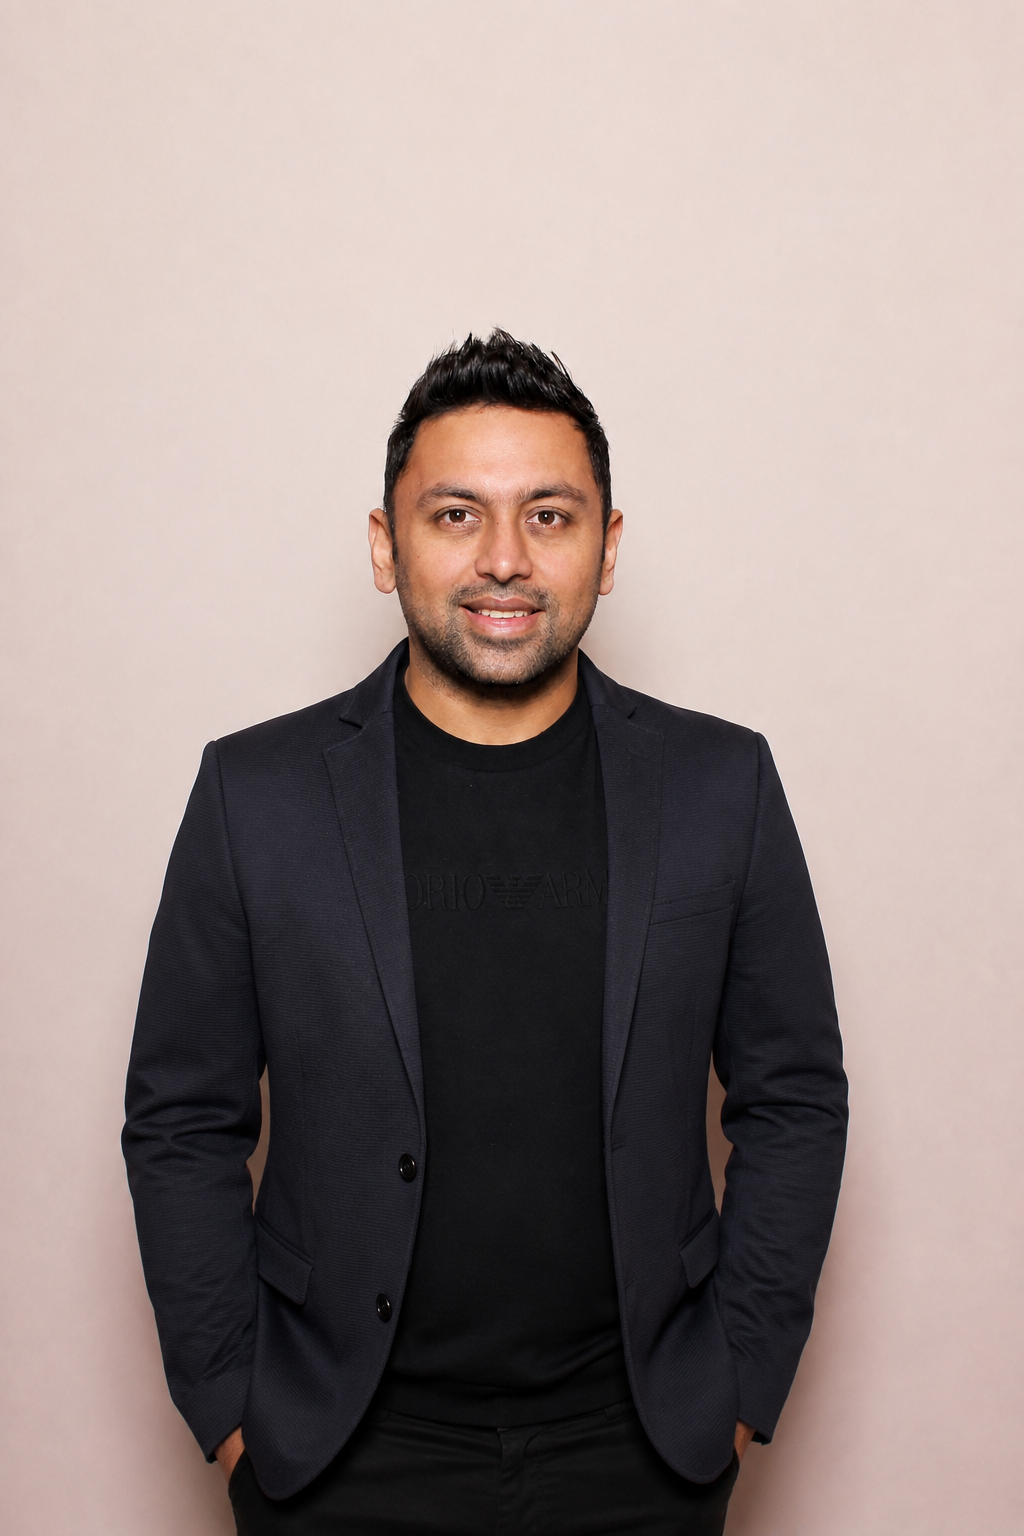
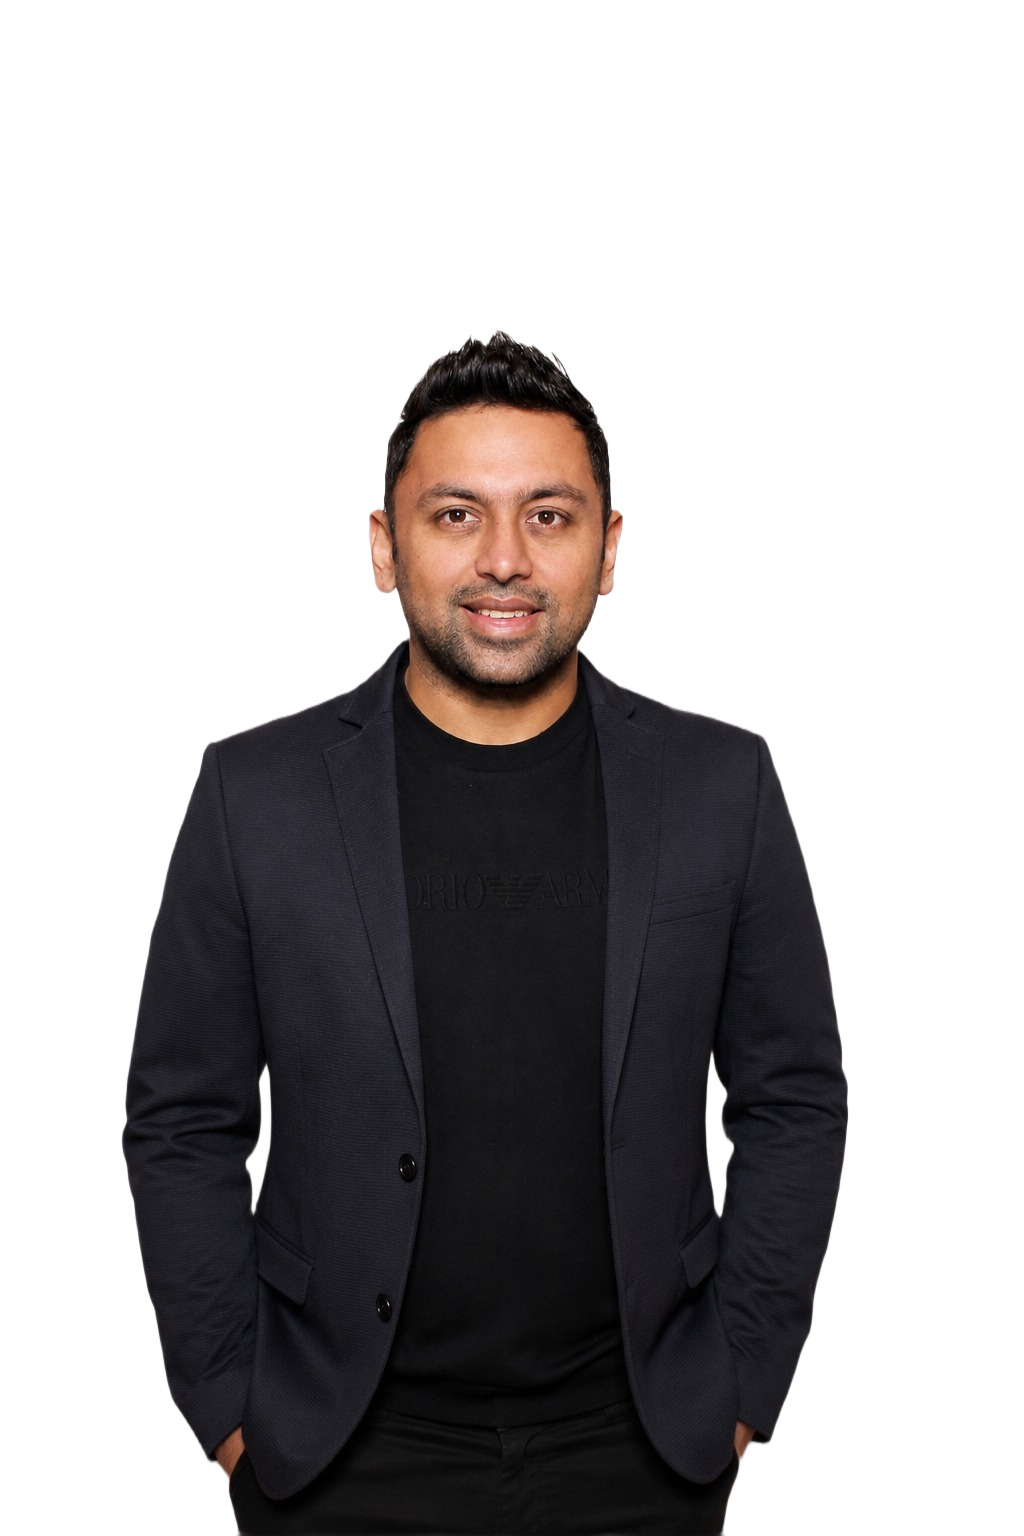
feat: update council image assets to PNGs and sync latest index.html

diff --git a/index.html b/index.html
@@ -769,6 +769,7 @@ button {
    ============================================================ */
 .sec-the-makers {
   padding: 0 0 clamp(60px, 8vw, 100px);
+  scroll-margin-top: 110px;
 }
 .makers-head-center {
   text-align: center;
@@ -808,42 +809,58 @@ button {
 .makers-profile-grid {
   display: grid;
   grid-template-columns: repeat(5, 1fr);
-  gap: clamp(14px, 2vw, 20px);
+  gap: clamp(18px, 2.2vw, 24px);
   margin-bottom: 0;
+  padding: 6px 8px 4px;
 }
 .makers-profile-grid.grid-leaders {
-  grid-template-columns: repeat(3, minmax(0, 240px));
+  grid-template-columns: repeat(3, minmax(0, 250px));
   justify-content: center;
 }
 .maker-profile-card {
-  background: var(--card-bg);
-  border: 1px solid var(--border-light);
-  border-radius: var(--r-md);
-  padding: 0 0 14px;
-  overflow: hidden;
+  background: #FFFFFF;
+  border: 1px solid #E6ECF4;
+  border-radius: 16px;
+  padding: 0 0 18px;
+  overflow: visible;
   display: flex;
   flex-direction: column;
-  transition: all 0.25s ease;
-  box-shadow: 0 2px 8px rgba(0, 0, 0, 0.03);
+  position: relative;
+  transition: transform 0.25s ease, box-shadow 0.25s ease;
+  box-shadow: 0 10px 28px rgba(15, 30, 61, 0.07);
 }
 .maker-profile-card:hover {
   transform: translateY(-4px);
-  border-color: var(--border-mid);
-  box-shadow: var(--shadow-card);
+  box-shadow: 0 16px 36px rgba(15, 30, 61, 0.12);
 }
 .maker-sector-banner {
-  display: flex;
+  position: absolute;
+  top: 16px;
+  left: -8px;
+  z-index: 4;
+  display: inline-flex;
   align-items: center;
   gap: 6px;
-  background: var(--navy-dark);
+  background: var(--royal-blue);
   color: #FFFFFF;
-  font-size: 9.5px;
+  font-size: 9px;
   font-weight: 700;
-  letter-spacing: 0.08em;
+  letter-spacing: 0.07em;
   text-transform: uppercase;
-  padding: 8px 10px;
-  line-height: 1.35;
-  min-height: 34px;
+  padding: 7px 12px 7px 14px;
+  line-height: 1.3;
+  max-width: calc(100% - 18px);
+  border-radius: 0 4px 4px 0;
+  box-shadow: 0 4px 10px rgba(15, 30, 61, 0.18);
+}
+.maker-sector-banner::after {
+  content: "";
+  position: absolute;
+  left: 0;
+  bottom: -7px;
+  border-style: solid;
+  border-width: 7px 8px 0 0;
+  border-color: #0A1633 transparent transparent transparent;
 }
 .maker-sector-banner svg {
   width: 10px;
@@ -851,48 +868,64 @@ button {
   flex-shrink: 0;
   fill: #FFFFFF;
 }
-.maker-card-body {
-  padding: 12px 12px 0;
-  display: flex;
-  flex-direction: column;
-  flex: 1;
-}
-.maker-card-img-wrap {
+.maker-card-photo {
+  position: relative;
   width: 100%;
-  aspect-ratio: 1.05;
-  border-radius: 10px;
+  height: 228px;
   overflow: hidden;
-  background: #E2E8F0;
-  margin-bottom: 12px;
+  border-radius: 16px 16px 0 0;
+  background: #FFFFFF;
 }
-.maker-card-img-wrap img {
+.maker-card-halo {
+  position: absolute;
+  left: 50%;
+  top: 22%;
+  transform: translateX(-50%);
+  width: 78%;
+  aspect-ratio: 1;
+  border-radius: 50%;
+  background: var(--royal-blue);
+  z-index: 0;
+}
+.maker-card-photo img {
+  position: relative;
+  z-index: 1;
   width: 100%;
-  height: 100%;
-  object-fit: cover;
-  object-position: top center;
+  height: 112%;
+  object-fit: contain;
+  object-position: center 12%;
+  filter: grayscale(1) contrast(1.06);
 }
 .maker-card-ph {
+  position: relative;
+  z-index: 1;
   width: 100%;
   height: 100%;
   display: flex;
   align-items: center;
   justify-content: center;
-  background: linear-gradient(160deg, var(--navy-dark), var(--royal-blue));
   color: #FFFFFF;
   font-size: 28px;
   font-weight: 800;
   letter-spacing: 0.04em;
 }
+.maker-card-info {
+  padding: 10px 16px 0;
+  display: flex;
+  flex-direction: column;
+  flex: 1;
+  text-align: left;
+}
 .maker-card-name {
-  font-size: 14.5px;
+  font-size: 15px;
   font-weight: 800;
   color: var(--royal-blue);
   line-height: 1.2;
 }
 .maker-card-company {
-  font-size: 11.5px;
-  font-weight: 600;
-  color: var(--text-muted);
+  font-size: 12px;
+  font-weight: 500;
+  color: #6B7A90;
   margin-top: 4px;
   line-height: 1.35;
 }
@@ -1658,24 +1691,24 @@ button {
    1. COUNCIL DATA (14 Members)
    ------------------------------------------------------------ */
 const COUNCIL = [
-  { group:'national', name:'Brij Bhushan Agrawal', sector:'President, ICC', company:'Shyam Mettalics and Energy', photo:'assets/council/brij-bhushan-agarwal.jpeg' },
+  { group:'national', name:'Brij Bhushan Agrawal', sector:'President, ICC', company:'Shyam Mettalics and Energy', photo:'assets/council/brij-bhushan-agarwal.png' },
   { group:'national', name:'Parthiv Neotia', sector:'Senior Vice President, ICC', company:'Ambuja Neotia Group', photo:'assets/council/parthiv-neotia.png' },
   { group:'national', name:'Keshav Bhajanka', sector:'Vice President, ICC', company:'Century Plyboards', photo:'assets/council/keshav-bhajanka.png' },
 
   { group:'state', name:'Ankit Mehta', sector:'Chair, ICC MP Chapter', company:'MMC Convert', photo:'assets/council/ankit-mehta.png' },
-  { group:'state', name:'Tapan Agrawal', sector:'Co-Chair, ICC MP Chapter', company:'Agrawal Coal Corporation', photo:'assets/council/tapan-agrawal.jpg' },
-  { group:'state', name:'Ankur Khaitan', sector:'Co-Chair (Bhopal), ICC MP Chapter', company:'LNJ Bhilwara Group', photo:'assets/council/ankur-khaitan.jpg' },
+  { group:'state', name:'Tapan Agrawal', sector:'Co-Chair, ICC MP Chapter', company:'Agrawal Coal Corporation', photo:'assets/council/tapan-agrawal.png' },
+  { group:'state', name:'Ankur Khaitan', sector:'Co-Chair (Bhopal), ICC MP Chapter', company:'LNJ Bhilwara Group', photo:'assets/council/ankur-khaitan.png' },
 
-  { group:'sectoral', name:'Ankit Agrawal', sector:'FMCG', company:'Mysore Deep Perfumery House', photo:'assets/council/ankit-agrawal.jpeg' },
-  { group:'sectoral', name:'Minaal Sahlot', sector:'Real Estate', company:'Raj Group', photo:'assets/council/minaal-sahlot.jpg' },
-  { group:'sectoral', name:'Priyesh Nagar', sector:'Retail', company:'Maganlal Chhaganlal', photo:'assets/council/priyesh-nagar.jpeg' },
+  { group:'sectoral', name:'Ankit Agrawal', sector:'FMCG', company:'Mysore Deep Perfumery House', photo:'assets/council/ankit-agrawal.png' },
+  { group:'sectoral', name:'Minaal Sahlot', sector:'Real Estate', company:'Raj Group', photo:'assets/council/minaal-sahlot.png' },
+  { group:'sectoral', name:'Priyesh Nagar', sector:'Retail', company:'Maganlal Chhaganlal', photo:'assets/council/priyesh-nagar.png' },
   { group:'sectoral', name:'Rishabh Mehta', sector:'Hospitality', company:'MID India Creations LLP', photo:'assets/council/rishabh-mehta.png' },
-  { group:'sectoral', name:'Saksham Agrawal', sector:'Infrastructure', company:'Path Group', photo:'assets/council/saksham-agrawal.jpg' },
-  { group:'sectoral', name:'Sarthak Doshi', sector:'Investments', company:'Indo Thai Securities', photo:'assets/council/sarthak-doshi.jpg' },
-  { group:'sectoral', name:'Shanu Mehta', sector:'International', company:'MMC Convert', photo:'assets/council/shanu-mehta.jpg' },
+  { group:'sectoral', name:'Saksham Agrawal', sector:'Infrastructure', company:'Path Group', photo:'assets/council/saksham-agrawal.png' },
+  { group:'sectoral', name:'Sarthak Doshi', sector:'Investments', company:'Indo Thai Securities', photo:'assets/council/sarthak-doshi.png' },
+  { group:'sectoral', name:'Shanu Mehta', sector:'International', company:'MMC Convert', photo:'assets/council/shanu-mehta.png' },
   { group:'sectoral', name:'Siddharth Bhargava', sector:'Manufacturing', company:'Rajshree Engineering', photo:'assets/council/siddharth-bhargav.png' },
-  { group:'sectoral', name:'Sumit Ghorawat', sector:'Technology', company:'Direct (ShopKirana)', photo:'assets/council/sumit-ghorawat.jpg' },
-  { group:'sectoral', name:'Udit Birla', sector:'Health & Hygiene', company:'Swara Baby Products', photo:'assets/council/udit-birla.jpeg' }
+  { group:'sectoral', name:'Sumit Ghorawat', sector:'Technology', company:'Direct (ShopKirana)', photo:'assets/council/sumit-ghorawat.png' },
+  { group:'sectoral', name:'Udit Birla', sector:'Health & Hygiene', company:'Swara Baby Products', photo:'assets/council/udit-birla.png' }
 ];
 
 function initials(name) {
@@ -1694,8 +1727,11 @@ function makerCard(m) {
         <svg viewBox="0 0 24 24" aria-hidden="true"><path d="M12 2l2.9 6.9L22 10l-5 4.4L18.2 22 12 18.2 5.8 22 7 14.4 2 10l7.1-1.1z"/></svg>
         <span>${m.sector}</span>
       </div>
-      <div class="maker-card-body">
-        <div class="maker-card-img-wrap">${photo}</div>
+      <div class="maker-card-photo">
+        <div class="maker-card-halo" aria-hidden="true"></div>
+        ${photo}
+      </div>
+      <div class="maker-card-info">
         <h3 class="maker-card-name">${m.name}</h3>
         <p class="maker-card-company">${m.company}</p>
       </div>

diff --git a/scripts/prepare-portraits.js b/scripts/prepare-portraits.js
@@ -1,0 +1,176 @@
+const fs = require('fs');
+const path = require('path');
+const { PNG } = require('pngjs');
+const jpeg = require('jpeg-js');
+
+const SRC = 'C:\\Users\\admin\\.cursor\\projects\\c-Users-admin-Documents-Imagine-new-MP\\assets';
+const DEST = path.join(__dirname, '..', 'assets', 'council');
+
+const PEOPLE = {
+  'parthiv-neotia': 'parthiv-neotia.png',
+  'keshav-bhajanka': 'keshav-bhajanka.png',
+  'brij-bhushan-agarwal': 'brij-bhushan-agarwal.png',
+  'ankit-mehta': 'ankit-mehta.png',
+  'tapan-agrawal': 'tapan-agrawal.png',
+  'ankur-khaitan': 'ankur-khaitan.png',
+  'ankit-agrawal': 'ankit-agrawal.png',
+  'minaal-sahlot': 'minaal-sahlot.png',
+  'priyesh-nagar': 'priyesh-nagar.png',
+  'rishabh-mehta': 'rishabh-mehta.png',
+  'saksham-agrawal': 'saksham-agrawal.png',
+  'sarthak-doshi': 'sarthak-doshi.png',
+  'shanu-mehta': 'shanu-mehta.png',
+  'siddharth-bhargav': 'siddharth-bhargav.png',
+  'sumit-ghorawat': 'sumit-ghorawat.png',
+  'udit-birla': 'udit-birla.png'
+};
+
+function lum(data, i) {
+  return 0.2126 * data[i] + 0.7152 * data[i + 1] + 0.0722 * data[i + 2];
+}
+
+function detectBg(png) {
+  const { width, height, data } = png;
+  const samples = [];
+  const box = Math.max(4, Math.min(12, Math.floor(Math.min(width, height) / 40)));
+  const corners = [
+    [0, 0],
+    [width - box, 0],
+    [0, height - box],
+    [width - box, height - box]
+  ];
+  for (const [sx, sy] of corners) {
+    for (let y = sy; y < sy + box; y++) {
+      for (let x = sx; x < sx + box; x++) {
+        samples.push(lum(data, (y * width + x) * 4));
+      }
+    }
+  }
+  samples.sort((a, b) => a - b);
+  const mid = samples[Math.floor(samples.length / 2)];
+  if (mid < 70) return 'dark';
+  if (mid > 190) return 'light';
+  return mid < 128 ? 'dark' : 'light';
+}
+
+function trimPng(buf) {
+  const marker = Buffer.from([0x00, 0x00, 0x00, 0x00, 0x49, 0x45, 0x4E, 0x44, 0xAE, 0x42, 0x60, 0x82]);
+  const idx = buf.indexOf(marker);
+  if (idx >= 0) return buf.subarray(0, idx + marker.length);
+  return buf;
+}
+
+function readImage(filePath) {
+  const buf = fs.readFileSync(filePath);
+  if (buf[0] === 0xFF && buf[1] === 0xD8) {
+    const decoded = jpeg.decode(buf, { useTArray: true, formatAsRGBA: true });
+    const png = new PNG({ width: decoded.width, height: decoded.height });
+    png.data = Buffer.from(decoded.data);
+    return png;
+  }
+  try {
+    return PNG.sync.read(trimPng(buf));
+  } catch (err) {
+    const decoded = jpeg.decode(buf, { useTArray: true, formatAsRGBA: true });
+    const png = new PNG({ width: decoded.width, height: decoded.height });
+    png.data = Buffer.from(decoded.data);
+    return png;
+  }
+}
+
+function isBgPixel(data, i, mode) {
+  const l = lum(data, i);
+  if (mode === 'dark') return l < 42;
+  const r = data[i];
+  const g = data[i + 1];
+  const b = data[i + 2];
+  return l > 236 && Math.abs(r - g) < 16 && Math.abs(g - b) < 16;
+}
+
+function knockOut(png, mode) {
+  if (mode === 'none') return;
+  const { width, height, data } = png;
+  const visited = new Uint8Array(width * height);
+  const qx = new Int32Array(width * height);
+  const qy = new Int32Array(width * height);
+  let qh = 0;
+  let qt = 0;
+
+  const enqueue = (x, y) => {
+    if (x < 0 || y < 0 || x >= width || y >= height) return;
+    const p = y * width + x;
+    if (visited[p]) return;
+    visited[p] = 1;
+    if (!isBgPixel(data, p * 4, mode)) return;
+    qx[qt] = x;
+    qy[qt] = y;
+    qt++;
+  };
+
+  for (let x = 0; x < width; x++) {
+    enqueue(x, 0);
+    enqueue(x, height - 1);
+  }
+  for (let y = 0; y < height; y++) {
+    enqueue(0, y);
+    enqueue(width - 1, y);
+  }
+
+  while (qh < qt) {
+    const x = qx[qh];
+    const y = qy[qh];
+    qh++;
+    data[(y * width + x) * 4 + 3] = 0;
+    enqueue(x + 1, y);
+    enqueue(x - 1, y);
+    enqueue(x, y + 1);
+    enqueue(x, y - 1);
+  }
+
+  for (let y = 1; y < height - 1; y++) {
+    for (let x = 1; x < width - 1; x++) {
+      const i = (y * width + x) * 4;
+      if (data[i + 3] === 0) continue;
+      const neighbors = [
+        ((y - 1) * width + x) * 4,
+        ((y + 1) * width + x) * 4,
+        (y * width + x - 1) * 4,
+        (y * width + x + 1) * 4
+      ];
+      const nearHole = neighbors.some((n) => data[n + 3] === 0);
+      if (!nearHole) continue;
+      const l = lum(data, i);
+      if (mode === 'dark' && l < 70) {
+        data[i + 3] = Math.max(0, Math.round(((l - 42) / 28) * 255));
+      }
+      if (mode === 'light' && l > 210) {
+        data[i + 3] = Math.max(0, Math.round(((236 - l) / 26) * 255));
+      }
+    }
+  }
+}
+
+fs.mkdirSync(DEST, { recursive: true });
+const files = fs.readdirSync(SRC);
+
+for (const [key, destName] of Object.entries(PEOPLE)) {
+  const found = files.find((f) => f.includes(`_${key}-`) && f.endsWith('.png'));
+  if (!found) {
+    console.error('MISSING', key);
+    continue;
+  }
+  const srcPath = path.join(SRC, found);
+  const destPath = path.join(DEST, destName);
+  let png;
+  try {
+    png = readImage(srcPath);
+  } catch (err) {
+    console.error('READ FAIL', key, err.message);
+    fs.copyFileSync(srcPath, destPath);
+    continue;
+  }
+  const mode = detectBg(png);
+  knockOut(png, mode);
+  fs.writeFileSync(destPath, PNG.sync.write(png));
+  console.log(`${destName}  (${mode} bg, ${png.width}x${png.height})`);
+}
